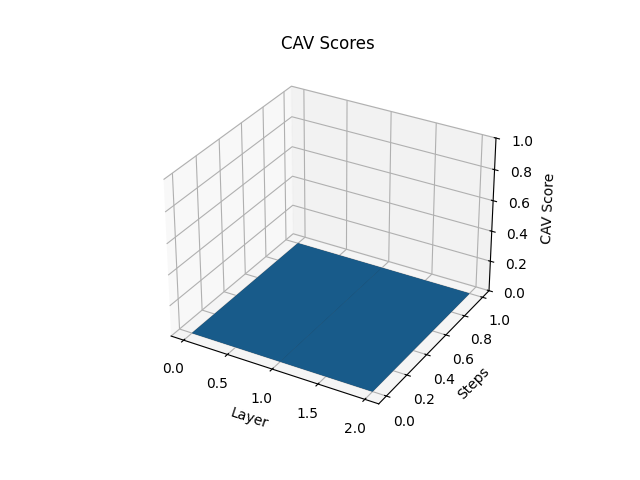
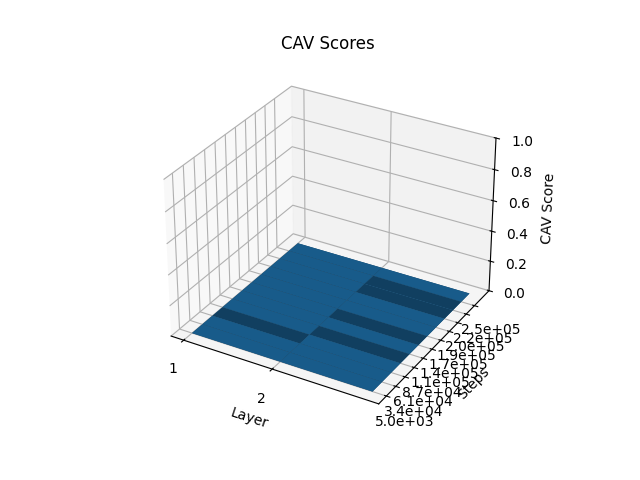
feat: added x labels

diff --git a/methods/src/cav/analysis.py b/methods/src/cav/analysis.py
@@ -19,9 +19,10 @@ class Analysis:
         self._negative_sample_path = negative_sample_path
 
         self._cav_scores = {}
+        self._model_steps = {}
 
     def run(self):
-        while self._models.has_next():
+        while True:
             cav = CAV(
                 self._models.policy_net,
                 self._positive_sample_path,
@@ -30,12 +31,18 @@ class Analysis:
             cav.compute_cavs()
             cav.compute_cav_scores()
             self._cav_scores[self._models.current_model_name] = cav.cav_scores
+            self._model_steps[self._models.current_model_name] = (
+                self._models.current_model_steps
+            )
+            if not self._models.has_next():
+                break
             self._models.next()
 
     def plot(self, save_path: str = "cav_plot.png"):
         matrix = np.array(
             [list(scores.values()) for scores in self._cav_scores.values()]
         )
+        steps = [f"{step:.1e}" for step in self._model_steps.values()]
         if len(matrix) == 0:
             logging.error("No CAV scores found.")
             return
@@ -60,6 +67,11 @@ class Analysis:
         ax1.set_xlabel("Layer")
         ax1.set_ylabel("Steps")
         ax1.set_zlabel("CAV Score")
+
+        ax1.set_xticks(np.arange(matrix.shape[1]))
+        ax1.set_xticklabels([str(i) for i in range(1, matrix.shape[1] + 1)])
+        ax1.set_yticks(np.arange(len(steps)))
+        ax1.set_yticklabels(steps)
 
         plt.show()
 

diff --git a/methods/src/utils/models.py b/methods/src/utils/models.py
@@ -67,9 +67,11 @@ class Models:
     def has_next(self):
         return self._model_idx < len(self._model_artifacts)
 
+    @property
     def current_model_name(self):
         return self._model_artifact
 
+    @property
     def current_model_steps(self):
         if "steps_done" not in self._metadata:
             logging.error("No steps_done in metadata.")
